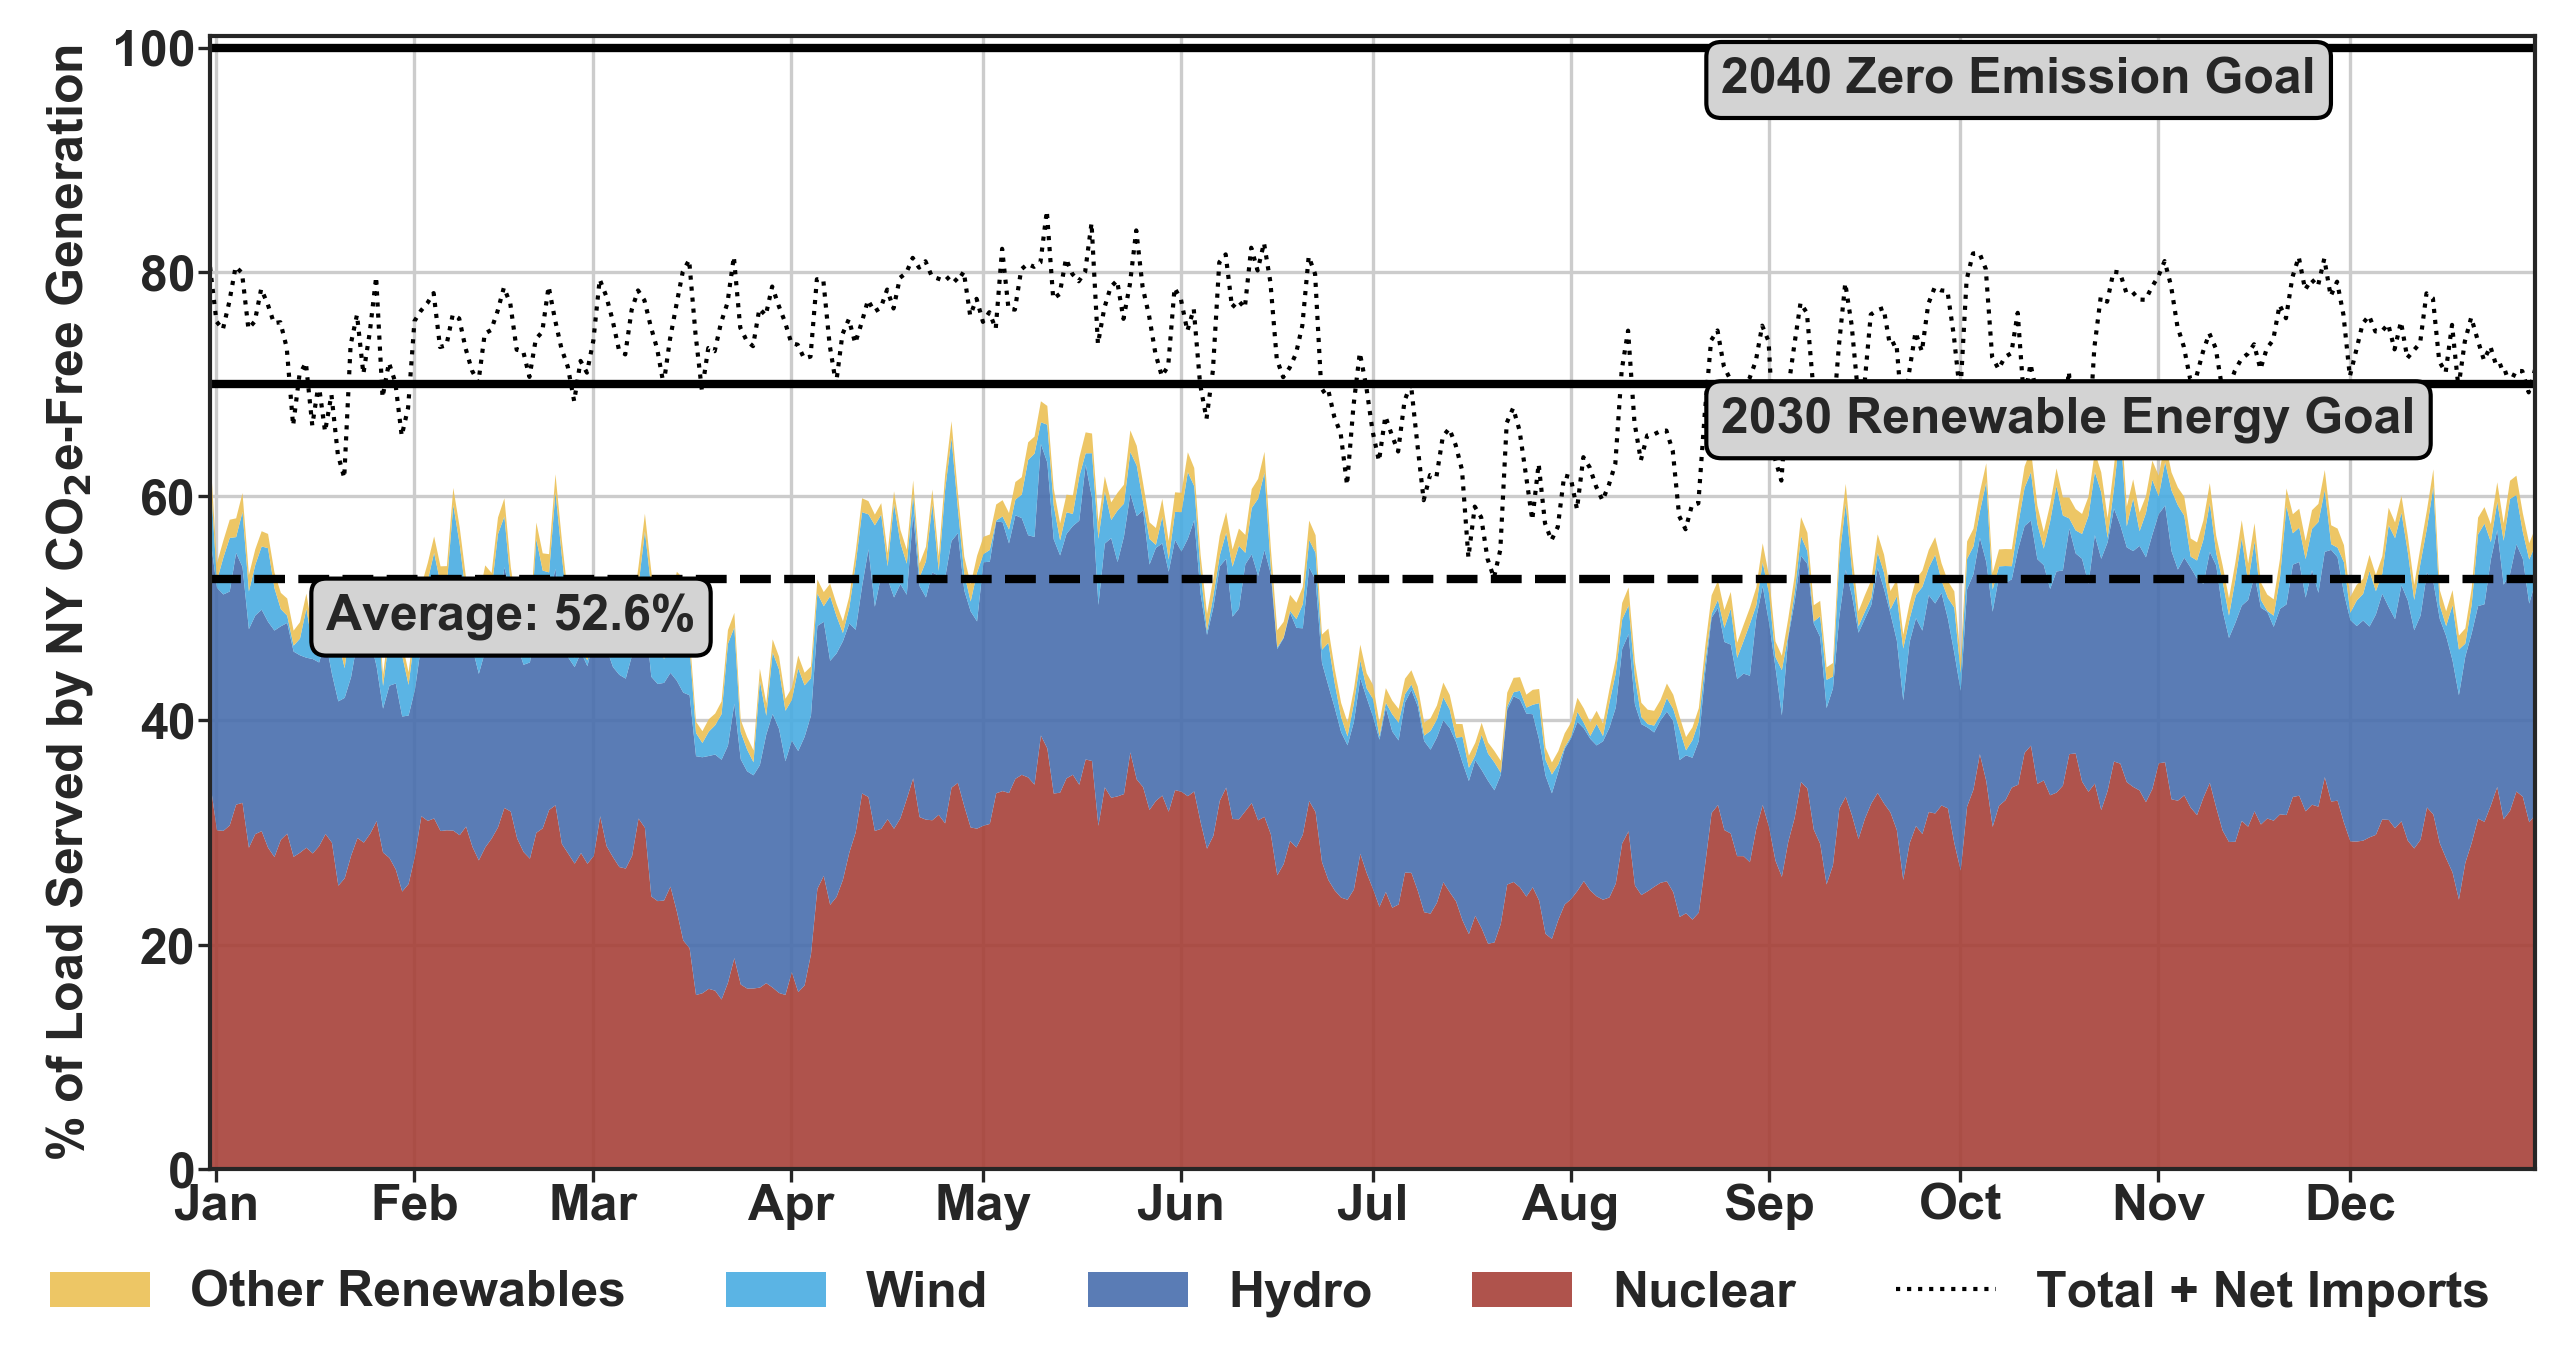
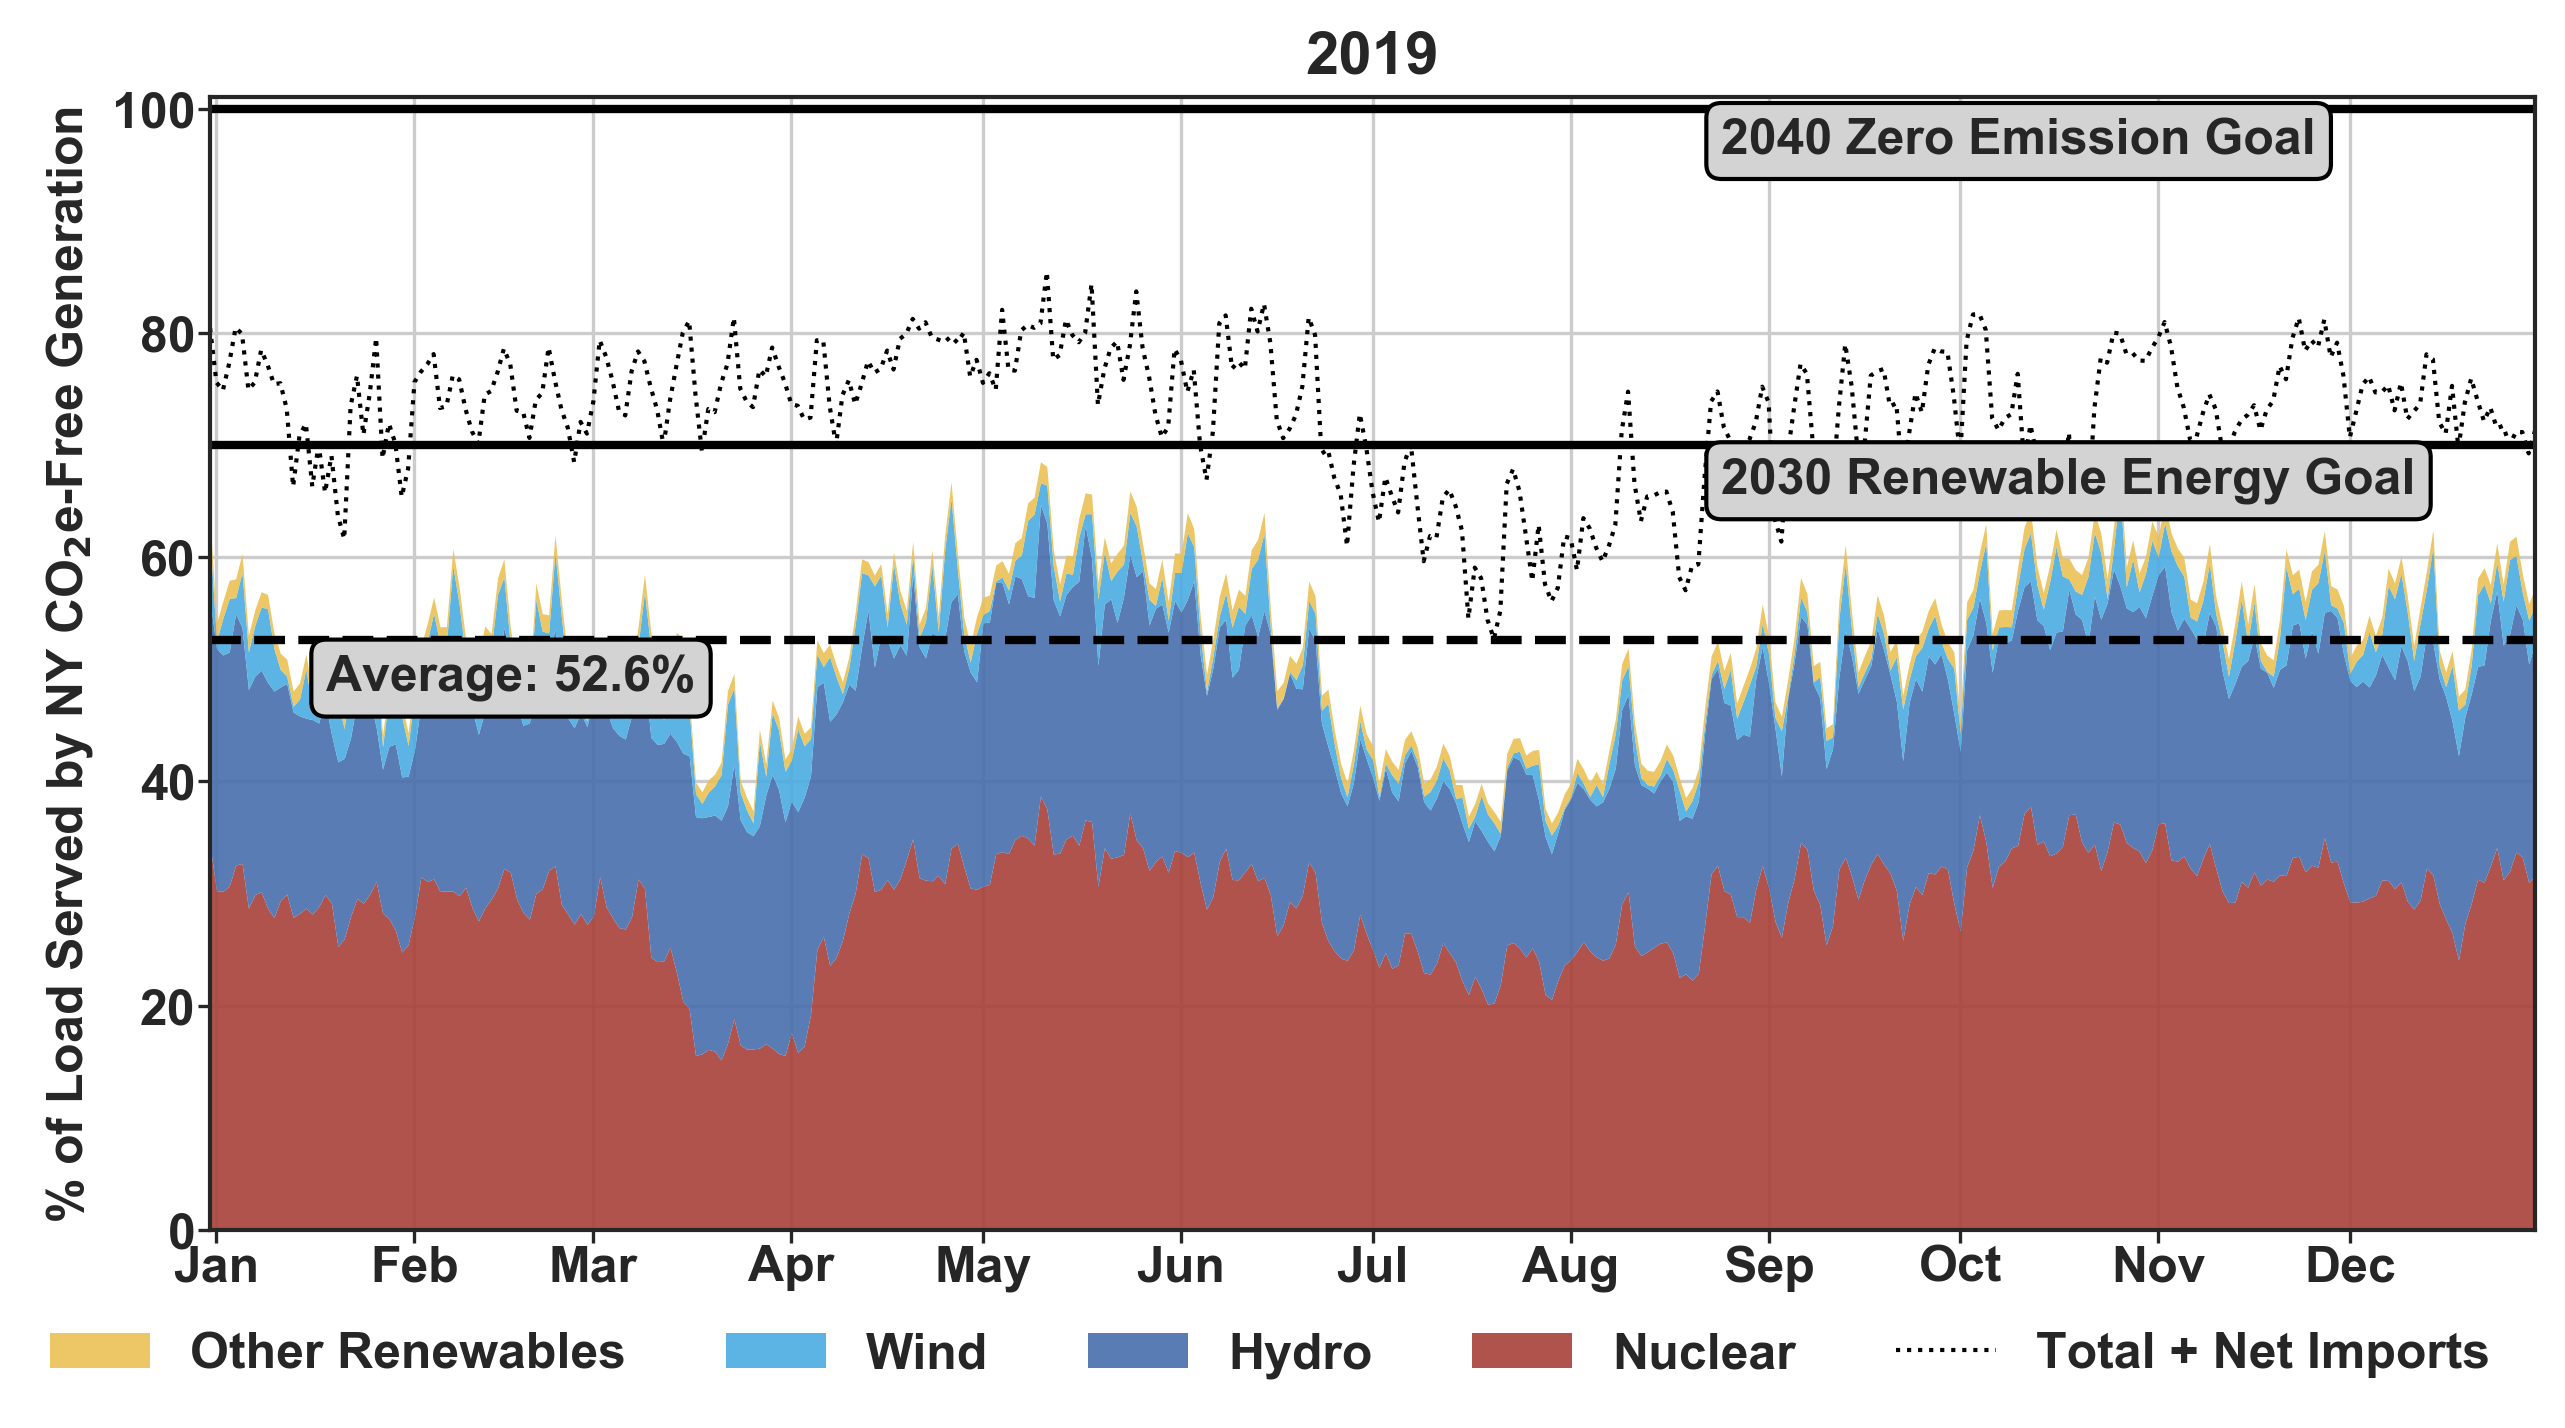
fixed interface flows visualization with year error

diff --git a/nyisovis.py b/nyisovis.py
@@ -68,7 +68,7 @@ class NYISOVis:
         #Power [MW]
         load = NYISOData(dataset='load_5m',year=year).df.tz_convert('US/Eastern')['NYCA']
         fuel_mix = NYISOData(dataset='fuel_mix_5m',year=year).df.tz_convert('US/Eastern')
-        imports = NYISOData(dataset='interface_flows_5m', year='2019').df.tz_convert('US/Eastern')
+        imports = NYISOData(dataset='interface_flows_5m', year=year).df.tz_convert('US/Eastern')
         imports = imports[imports['Interface Name'].isin(EXTERNAL_TFLOWS_MAP.values())]['Flow (MW)']
     
         #Energy Converstion [MWh] and Resampling By Summing Energy
@@ -82,6 +82,7 @@ class NYISOVis:
         #Plot Generation
         df = fuel_mix[['Nuclear','Hydro','Wind','Other Renewables','Dual Fuel', 'Natural Gas','Other Fossil Fuels', 'Net Imports']] #define order 
         fig, ax = plt.subplots(figsize=(10,5))
+        plt.title(year)
         df.plot.area(ax=ax,
                      color=[LEGEND_DEETS.get(x, '#333333') for x in df.columns],
                      alpha=0.9, grid=True, lw=0)
@@ -122,7 +123,7 @@ class NYISOVis:
         #Power [MW]
         load = NYISOData(dataset='load_5m',year=year).df.tz_convert('US/Eastern')['NYCA']
         fuel_mix = NYISOData(dataset='fuel_mix_5m',year=year).df.tz_convert('US/Eastern')
-        imports = NYISOData(dataset='interface_flows_5m', year='2019').df.tz_convert('US/Eastern')
+        imports = NYISOData(dataset='interface_flows_5m', year=year).df.tz_convert('US/Eastern')
         imports = imports[imports['Interface Name'].isin(EXTERNAL_TFLOWS_MAP.values())]['Flow (MW)']
     
         #Energy Converstion [MWh] and Resampling By Summing Energy
@@ -140,6 +141,7 @@ class NYISOVis:
                     
         #Plot Generation
         fig, ax = plt.subplots(figsize=(10,5))
+        plt.title(year)
         if sort:
             df = ef.sort_values('percent_carbon_free', ascending=True)[carbonfree_sources]
             df.reset_index(inplace=True, drop=True)
